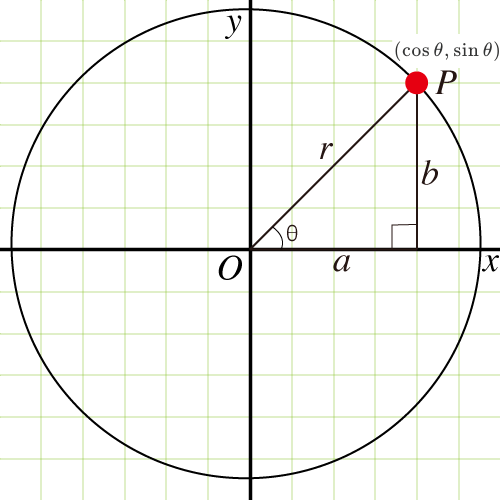
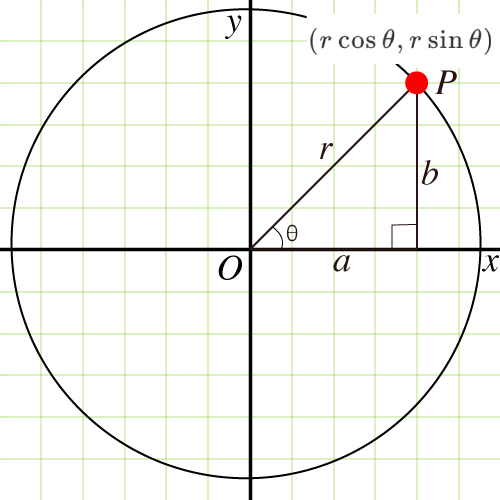
修正

Changed region(s): [[0.6, 0.03, 1.0, 0.12]]

diff --git a/src/pages/research/OER/wwl/index.md b/src/pages/research/OER/wwl/index.md
@@ -293,6 +293,14 @@ $$
  \tan{\theta} = \frac{b}{a}
 $$
 
+これより点 P の座標は
+
+$$
+ P(a, b) = ( r \cos{\theta}, r \sin{\theta})
+$$
+
+になります（上の図を参照してください）．
+
 ここで単位円（$r=1$）で考えると正弦（サイン）と余弦（コサイン）はとても簡単になります．
 
 $$
@@ -303,13 +311,7 @@ $$
  \cos{\theta} = a
 $$
 
-つまり，点 P の座標は
 
-$$
- P(a, b) = (\cos{\theta}, \sin{\theta})
-$$
-
-になります（上の図を参照してください）．
 
 正接（タンジェント）も，サイン，コサインで表すことができます．
 
